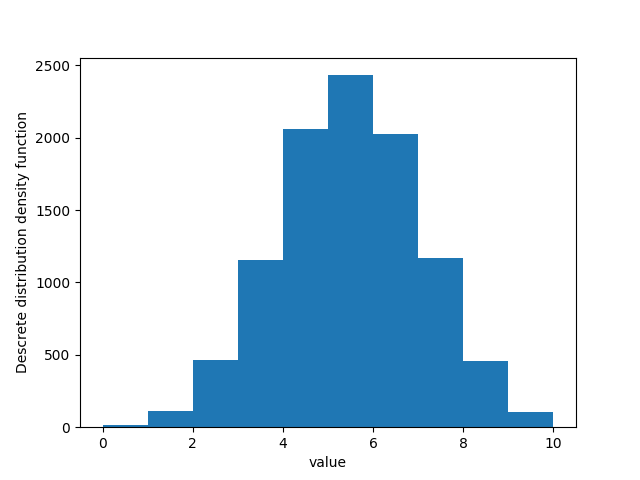
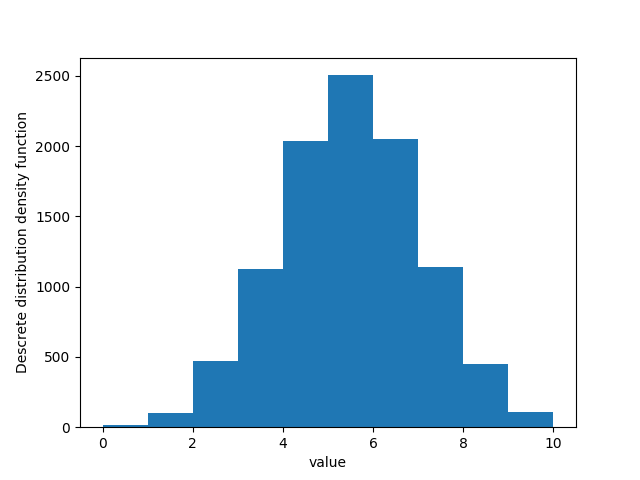
fixed images

diff --git a/lab2/main.py b/lab2/main.py
@@ -22,7 +22,7 @@ for i in range(1, 3):
     rands = pois(10, size=size, algo=i)
     visualize_stats(rands, name='Poisson'+str(i))
 
-rands = uni(11, 100, size=size)
+rands = uni(1, 100, size=size)
 visualize_stats(rands, name='Uniform')
 
 rands = log(0.5, size=size)
